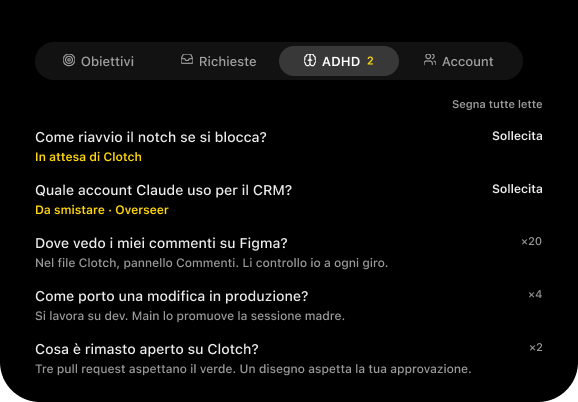
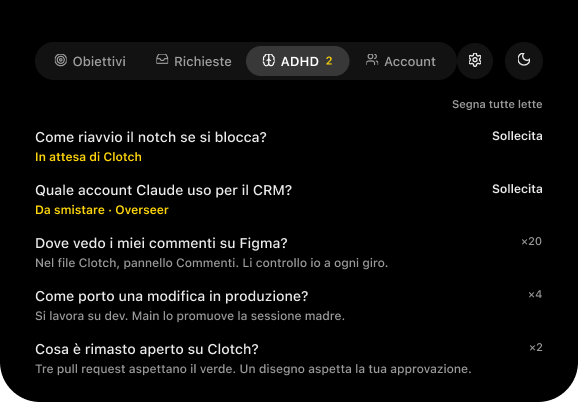
fix(adhd): scheda ADHD uguale al disegno Figma: barra schede con token, gear 36, stato Sollecitata (#123)

Changed region(s): [[0.2803, 0.0896, 0.872, 0.209], [0.0934, 0.1194, 0.2491, 0.1791], [0.9031, 0.1194, 0.9343, 0.1791]]

diff --git a/Sources/Clotch/NotchSections.swift b/Sources/Clotch/NotchSections.swift
@@ -147,76 +147,14 @@ enum TabBarPointer {
     static var inside = false
 }
 
-/// Three 142 × 30 segments in a 38 pt well; the chosen one lifts. One spring moves the highlight.
-struct TabBar: View {
-    @Binding var tab: NotchTab
-    var tabs = NotchTab.allCases
-    /// The tab with a yellow number, no box (new answers, #90, #114); never the open one.
-    var badge: (tab: NotchTab, count: Int)? = nil
-    /// The yellow number in the ADHD tab: the questions still without an answer (#123); nothing at 0.
-    var adhdCount = 0
-    /// The AFK moon's state for `--snapshot`; nil = live.
-    var afkOn: Bool? = nil
-    @Namespace private var highlight
-    @Environment(\.accessibilityReduceMotion) private var reduceMotion
-
-    var body: some View {
-        HStack(spacing: 0) {
-            ForEach(tabs) { item in
-                // withAnimation, so the notch's height follows the new tab with the same spring as the tab.
-                Button { withAnimation(NotchMotion.animation(reduce: reduceMotion)) { tab = item } } label: {
-                    HStack(spacing: 6) {
-                        Image(systemName: item.symbol)
-                        Text(item.title)
-                        if let badge, badge.tab == item, item != tab {
-                            Text("\(badge.count)")
-                                .font(.system(size: FigmaToken.MacOS27GoldenGate.notchTesto11, weight: .semibold))
-                                .foregroundStyle(FigmaToken.MacOS27GoldenGate.notchGiallo)
-                                .accessibilityLabel(badge.count == 1 ? "1 nuova risposta" : "\(badge.count) nuove risposte")
-                        }
-                        if item == .adhd && adhdCount > 0 {
-                            Text("\(adhdCount)").font(.system(size: FigmaToken.MacOS27GoldenGate.notchTesto11, weight: .semibold))
-                                .foregroundStyle(GoalTone.wait.color).accessibilityLabel("\(adhdCount) senza risposta")
-                        }
-                    }
-                    .font(item == tab ? NotchType.tab : NotchType.tabOff)
-                    .foregroundStyle(item == tab ? GoalInk.primary : GoalInk.off)
-                    .frame(maxWidth: .infinity, minHeight: 30)
-                    .background {
-                        if item == tab {
-                            Capsule().fill(GoalInk.selected).matchedGeometryEffect(id: "tab", in: highlight)
-                        }
-                    }
-                    .contentShape(Capsule())
-                }
-                .buttonStyle(.notch)
-                .accessibilityAddTraits(item == tab ? .isSelected : [])
-            }
-        }
-        .padding(4)
-        .background(Capsule().fill(GoalInk.well))
-        .frame(maxWidth: 434)
-        .onHover { TabBarPointer.inside = $0 }
-        .onDisappear { TabBarPointer.inside = false }  // closing the notch sends no hover-out
-        // The gear and the AFK moon (#106) on the right of the bar, so they are there on every tab.
-        .padding(.trailing, 86)
-        .frame(maxWidth: .infinity, alignment: .leading)
-        .overlay(alignment: .trailing) {
-            HStack(spacing: 12) {
-                NotchSettingsButton()
-                AfkButton(on: afkOn)
-            }
-        }
-    }
-}
-
 /// The gear of the open notch: the app's settings window, the same as the menu bar's «Impostazioni…»
 /// (where «Personalizza il notch» lives too).
 struct NotchSettingsButton: View {
     var open: @MainActor () -> Void = { NotchExit.close(); SettingsWindowController.shared.show() }
 
     var body: some View {
-        NotchIconButton(icon: "gearshape", tooltip: "Apri impostazioni") { open() }
+        NotchIconButton(icon: "gearshape", tooltip: "Apri impostazioni", circle: FigmaToken.MacOS27GoldenGate.notchMisura36,
+                        glyph: FigmaToken.MacOS27GoldenGate.notchTesto13) { open() }
     }
 }
 

diff --git a/Sources/Clotch/NotchTabBar.swift b/Sources/Clotch/NotchTabBar.swift
@@ -1,0 +1,77 @@
+// figma: 58-56113
+import SwiftUI
+
+private typealias T = FigmaToken.MacOS27GoldenGate
+
+/// The bar of the open notch, from Figma frame 58-56113: four 103,5 × 30 tabs in a 422 well (padding 4), the chosen one
+/// lifts; on the right the gear (36) and the AFK moon (38), 12 apart. One spring moves the highlight.
+struct TabBar: View {
+    @Binding var tab: NotchTab
+    var tabs = NotchTab.allCases
+    /// The tab with a yellow number, no box (new answers, #90, #114); never the open one.
+    var badge: (tab: NotchTab, count: Int)? = nil
+    /// The yellow number in the ADHD tab: the questions still without an answer (#123); nothing at 0.
+    var adhdCount = 0
+    /// The AFK moon's state for `--snapshot`; nil = live.
+    var afkOn: Bool? = nil
+    @Namespace private var highlight
+    @Environment(\.accessibilityReduceMotion) private var reduceMotion
+
+    var body: some View {
+        HStack(spacing: 0) {
+            well
+            Spacer(minLength: 0)
+            // The gear and the AFK moon (#106) on the right of the bar, so they are there on every tab.
+            HStack(spacing: T.notchSpazio12) {
+                NotchSettingsButton()
+                AfkButton(on: afkOn)
+            }
+        }
+        .frame(maxWidth: .infinity)
+    }
+
+    private var well: some View {
+        HStack(spacing: 0) {
+            ForEach(tabs) { item in
+                // withAnimation, so the notch's height follows the new tab with the same spring as the tab.
+                Button { withAnimation(NotchMotion.animation(reduce: reduceMotion)) { tab = item } } label: {
+                    HStack(spacing: T.notchSpazio6) {
+                        Image(systemName: item.symbol)
+                        Text(item.title)
+                        if let count = number(for: item) {
+                            Text("\(count.value)")
+                                .font(.system(size: T.notchTesto11, weight: .semibold))
+                                .foregroundStyle(T.notchGiallo)
+                                .accessibilityLabel(count.label)
+                        }
+                    }
+                    .font(.system(size: T.notchTesto13, weight: item == tab ? .semibold : .medium))
+                    .foregroundStyle(item == tab ? T.notchBianco : T.notchBiancoA60)
+                    .frame(width: T.notchMisura103_5, height: T.notchMisura30)
+                    .background {
+                        if item == tab {
+                            Capsule().fill(T.notchBiancoA16).matchedGeometryEffect(id: "tab", in: highlight)
+                        }
+                    }
+                    .contentShape(Capsule())
+                }
+                .buttonStyle(.notch)
+                .accessibilityAddTraits(item == tab ? .isSelected : [])
+            }
+        }
+        .padding(T.notchSpazio4)
+        .frame(width: T.notchMisura422)
+        .background(Capsule().fill(T.notchBiancoA7))
+        .onHover { TabBarPointer.inside = $0 }
+        .onDisappear { TabBarPointer.inside = false }  // closing the notch sends no hover-out
+    }
+
+    /// The yellow number beside a tab's title: new answers on Richieste (never on the open one), unanswered on ADHD.
+    private func number(for item: NotchTab) -> (value: Int, label: String)? {
+        if item == .adhd, adhdCount > 0 { return (adhdCount, "\(adhdCount) senza risposta") }
+        if let badge, badge.tab == item, item != tab {
+            return (badge.count, badge.count == 1 ? "1 nuova risposta" : "\(badge.count) nuove risposte")
+        }
+        return nil
+    }
+}

diff --git a/Sources/Clotch/FigmaTokens.swift b/Sources/Clotch/FigmaTokens.swift
@@ -45,6 +45,7 @@ enum FigmaToken {
         static let notchRaggio14: CGFloat = 14  // notch/raggio/14
         static let notchRaggio15: CGFloat = 15  // notch/raggio/15
         static let notchRaggio16: CGFloat = 16  // notch/raggio/16
+        static let notchRaggio18: CGFloat = 18  // notch/raggio/18
         static let notchRaggio19: CGFloat = 19  // notch/raggio/19
         static let notchRaggio20: CGFloat = 20  // notch/raggio/20
         static let notchRaggio28: CGFloat = 28  // notch/raggio/28
@@ -69,6 +70,7 @@ enum FigmaToken {
         static let notchSpessore1_2: CGFloat = 1.2000000476837158  // notch/spessore/1_2
         static let notchSpessore1_5167: CGFloat = 1.5166665315628052  // notch/spessore/1_5167
         static let notchSpessore1_7333: CGFloat = 1.7333333492279053  // notch/spessore/1_7333
+        static let notchSpessore1_3333: CGFloat = 1.3333333730697632  // notch/spessore/1_3333
         static let notchInterlinea17: CGFloat = 17  // notch/interlinea/17
         static let notchInterlinea18: CGFloat = 18  // notch/interlinea/18
         static let notchInterlinea19: CGFloat = 19  // notch/interlinea/19
@@ -142,13 +144,18 @@ enum FigmaToken {
         static let notchMisura24: CGFloat = 24  // notch/misura/24
         static let notchMisura28: CGFloat = 28  // notch/misura/28
         static let notchMisura30: CGFloat = 30  // notch/misura/30
+        static let notchMisura36: CGFloat = 36  // notch/misura/36
+        static let notchMisura38: CGFloat = 38  // notch/misura/38
         static let notchMisura40: CGFloat = 40  // notch/misura/40
         static let notchMisura54: CGFloat = 54  // notch/misura/54
+        static let notchMisura86: CGFloat = 86  // notch/misura/86
         static let notchMisura120: CGFloat = 120  // notch/misura/120
         static let notchMisura420: CGFloat = 420  // notch/misura/420
+        static let notchMisura422: CGFloat = 422  // notch/misura/422
         static let notchMisura458: CGFloat = 458  // notch/misura/458
         static let notchMisura488: CGFloat = 488  // notch/misura/488
         static let notchMisura578: CGFloat = 578  // notch/misura/578
+        static let notchMisura103_5: CGFloat = 103.5  // notch/misura/103_5
         static let notchFontFamiglia: String = "SF Pro"  // notch/font/famiglia
         static let notchFontMedio: String = "Medium"  // notch/font/medio
         static let notchFontSemibold: String = "Semibold"  // notch/font/semibold

diff --git a/Sources/Clotch/NotchPanelView.swift b/Sources/Clotch/NotchPanelView.swift
@@ -795,6 +795,9 @@ struct NotchIconButton: View {
     let icon: String
     var tint: Color = .white
     var tooltip: String? = nil
+    /// The drawn circle and its symbol; the tab bar's gear is bigger (Figma 58-56113).
+    var circle: CGFloat = Self.circleSize
+    var glyph: CGFloat = 11
     let action: () -> Void
 
     /// The drawn circle, and the hit target around it.
@@ -804,11 +807,11 @@ struct NotchIconButton: View {
     var body: some View {
         Button(action: action) {
             Image(systemName: icon)
-                .font(.system(size: 11, weight: .medium))
+                .font(.system(size: glyph, weight: .medium))
                 .foregroundStyle(tint.opacity(0.85))
-                .frame(width: Self.circleSize, height: Self.circleSize)
+                .frame(width: circle, height: circle)
                 .background(Circle().fill(tint.opacity(0.08)))
-                .frame(width: Self.hitSize, height: Self.hitSize)
+                .frame(width: circle + Self.hitSize - Self.circleSize, height: circle + Self.hitSize - Self.circleSize)
                 .contentShape(Rectangle())
         }
         .buttonStyle(.notchSmall)

diff --git a/Sources/Clotch/NotchAdhdTab.swift b/Sources/Clotch/NotchAdhdTab.swift
@@ -74,7 +74,7 @@ private struct AdhdRow: View {
                 Text("×\(item.times)").font(.system(size: T.notchTesto11, weight: .medium)).foregroundStyle(T.notchBiancoA60)
             }
         } else if item.nudged {
-            Text("Sollecitata").font(.system(size: T.notchTesto12, weight: .semibold)).foregroundStyle(T.notchBiancoA60)
+            Text("Sollecitata").font(.system(size: T.notchTesto12, weight: .semibold)).foregroundStyle(T.notchGiallo)
         } else {
             Button("Sollecita") { nudge(item.id) }
                 .font(.system(size: T.notchTesto12, weight: .semibold)).foregroundStyle(T.notchBiancoA92).buttonStyle(.notch)

diff --git a/Tests/ClotchCoreTests/EngineContractTests.swift b/Tests/ClotchCoreTests/EngineContractTests.swift
@@ -46,6 +46,7 @@ final class EngineContractTests: XCTestCase {
         XCTAssertEqual(one(#""responsabile":"Clotch","origine":"x","da_smistare":false"#).waitingLabel, "In attesa di Clotch")
         XCTAssertEqual(one(#""responsabile":"","origine":"Notch","da_smistare":false"#).waitingLabel, "In attesa di Notch")
         XCTAssertEqual(one(#""da_smistare":true"#).waitingLabel, "Da smistare · Overseer")
+        XCTAssertEqual(one(#""stato":"sollecitata","da_smistare":false"#).waitingLabel, "Sollecitata · aspetto la risposta")
         XCTAssertEqual(AdhdRequest.unansweredCount([one(#""da_smistare":true"#)]), 1)
     }
 

diff --git a/Tests/ClotchTests/NotchHeightTests.swift b/Tests/ClotchTests/NotchHeightTests.swift
@@ -27,7 +27,7 @@ final class NotchHeightTests: XCTestCase {
     func testGoalsTabIsShorterWithOneGoalThanWithAList() {
         let one = height(GoalsTab(rows: [row("a")], now: now).hugging(maxHeight: 700))
         let many = height(GoalsTab(rows: [row("a"), row("b"), row("c")], now: now).hugging(maxHeight: 700))
-        XCTAssertLessThan(one, many)  // the list adds the page dots
+        XCTAssertLessThanOrEqual(one, many)  // no page dots any more (#140): a list is never shorter
         XCTAssertLessThan(one, 700)   // and nothing fills the cap
     }
 

diff --git a/Sources/ClotchCore/AdhdRequests.swift b/Sources/ClotchCore/AdhdRequests.swift
@@ -17,7 +17,7 @@ public struct AdhdRequest: Identifiable, Equatable, Sendable {
 
     /// The yellow line under an unanswered question.
     public var waitingLabel: String {
-        toSort ? "Da smistare · Overseer" : "In attesa di \([responsible, origin].first { !$0.isEmpty } ?? "una sessione")"
+        nudged ? "Sollecitata · aspetto la risposta" : toSort ? "Da smistare · Overseer" : "In attesa di \([responsible, origin].first { !$0.isEmpty } ?? "una sessione")"
     }
 
     /// The number in the tab: the questions still without an answer.
